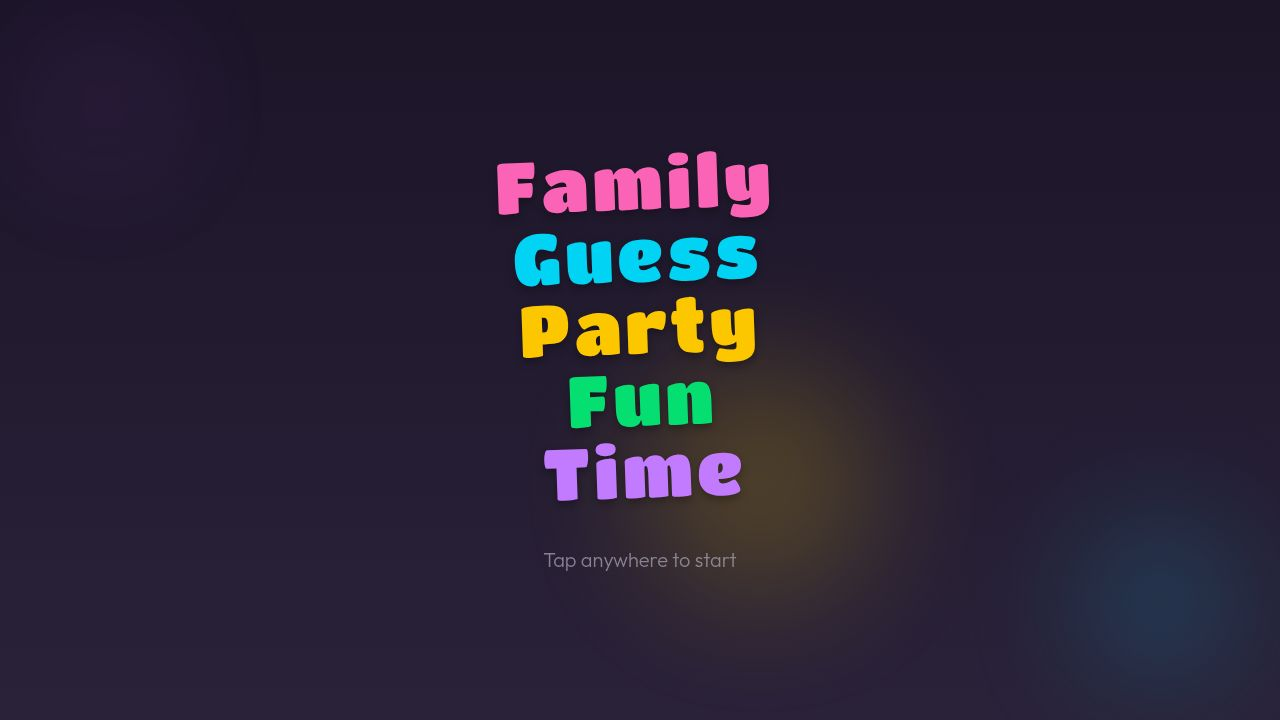
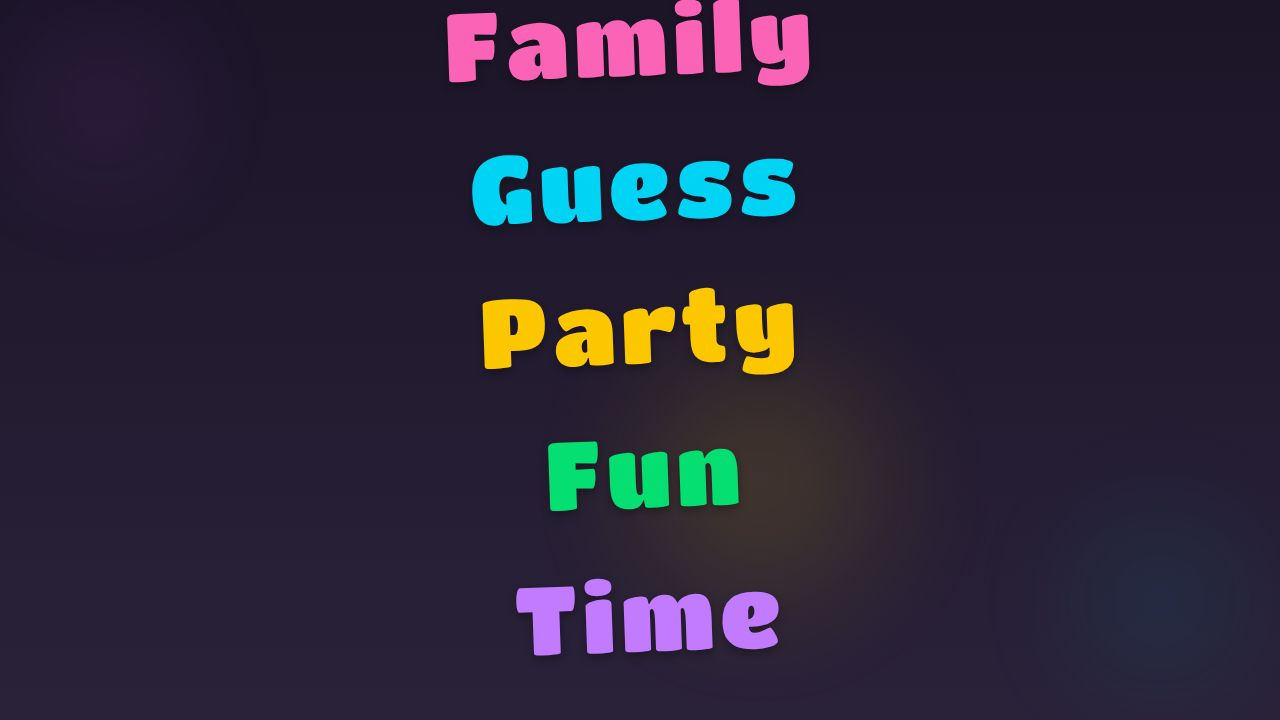
Improve main screen title appearance and spacing
Update `TitleStack` component to support larger text sizes and adjust line spacing. Modify `MainScreen` layout to vertically center the title and increase its size for better screen utilization.

Replit-Commit-Author: Agent
Replit-Commit-Session-Id: a86fa2c4-0753-4fb6-bc53-cdc336219a9a
Replit-Commit-Checkpoint-Type: intermediate_checkpoint
Replit-Commit-Event-Id: 5069d96b-4a20-4bae-8c11-76a2475da31d
Replit-Commit-Screenshot-Url: https://storage.googleapis.com/screenshot-production-us-central1/05ed8dc6-139c-46e5-b00a-5847e72f658c/a86fa2c4-0753-4fb6-bc53-cdc336219a9a/5IWAfjH
Replit-Helium-Checkpoint-Created: true

Changed region(s): [[0.3438, 0.2139, 0.625, 0.7333], [0.3438, 0.0, 0.6562, 0.1222], [0.4062, 0.7639, 0.625, 0.9167]]

diff --git a/client/src/components/ui/game-ui.tsx b/client/src/components/ui/game-ui.tsx
@@ -49,11 +49,16 @@ export function BackgroundGlow() {
 
 interface TitleStackProps {
   animated?: boolean;
-  size?: "lg" | "xl";
+  size?: "md" | "lg" | "xl";
 }
 
 export function TitleStack({ animated = false, size = "xl" }: TitleStackProps) {
-  const sizeClass = size === "xl" ? "text-7xl" : "text-6xl";
+  const sizeClasses = {
+    md: "text-6xl leading-tight",
+    lg: "text-7xl leading-snug",
+    xl: "text-8xl leading-normal",
+  };
+  const sizeClass = sizeClasses[size];
   
   if (animated) {
     return (
@@ -62,7 +67,7 @@ export function TitleStack({ animated = false, size = "xl" }: TitleStackProps) {
         initial="hidden"
         animate="visible"
       >
-        <h1 className={`${sizeClass} font-thin tracking-wide transform -rotate-2 leading-none`}>
+        <h1 className={`${sizeClass} font-thin tracking-wide transform -rotate-2`}>
           {titleWords.map((word) => (
             <motion.span
               key={word.text}
@@ -82,7 +87,7 @@ export function TitleStack({ animated = false, size = "xl" }: TitleStackProps) {
   }
   
   return (
-    <h1 className={`${sizeClass} font-thin tracking-wide transform -rotate-2 leading-none`}>
+    <h1 className={`${sizeClass} font-thin tracking-wide transform -rotate-2`}>
       {titleWords.map((word) => (
         <span
           key={word.text}

diff --git a/client/src/pages/Home.tsx b/client/src/pages/Home.tsx
@@ -35,15 +35,15 @@ function SplashScreen({ onTap }: { onTap: () => void }) {
 function MainScreen({ onStart }: { onStart: () => void }) {
   return (
     <motion.div
-      className="h-[100dvh] flex flex-col items-center justify-between pt-12 pb-8 px-4 bg-gradient-to-b from-background to-card overflow-hidden"
+      className="h-[100dvh] flex flex-col items-center justify-center gap-8 py-8 px-4 bg-gradient-to-b from-background to-card overflow-hidden"
       initial={{ opacity: 0 }}
       animate={{ opacity: 1 }}
       transition={{ duration: 0.4 }}
     >
       <BackgroundGlow />
 
-      <div className="z-10 flex flex-col items-center max-w-md w-full text-center">
-        <TitleStack size="lg" />
+      <div className="z-10 flex flex-col items-center max-w-md w-full text-center flex-1 justify-center">
+        <TitleStack size="xl" />
       </div>
 
       <div className="z-10 grid gap-3 w-full max-w-md px-4">
